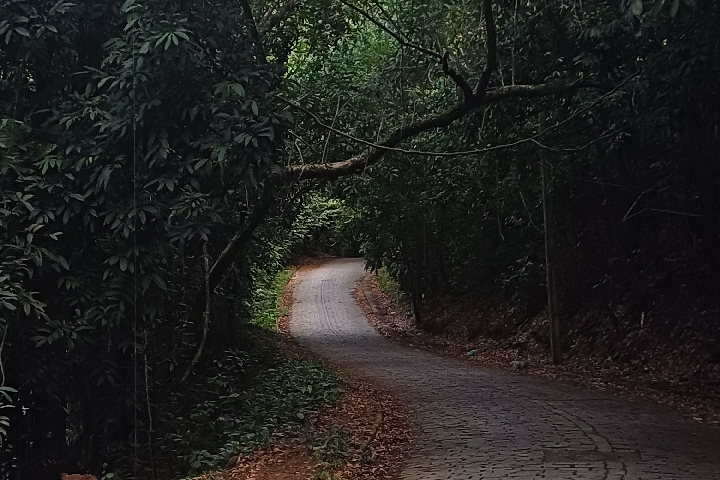
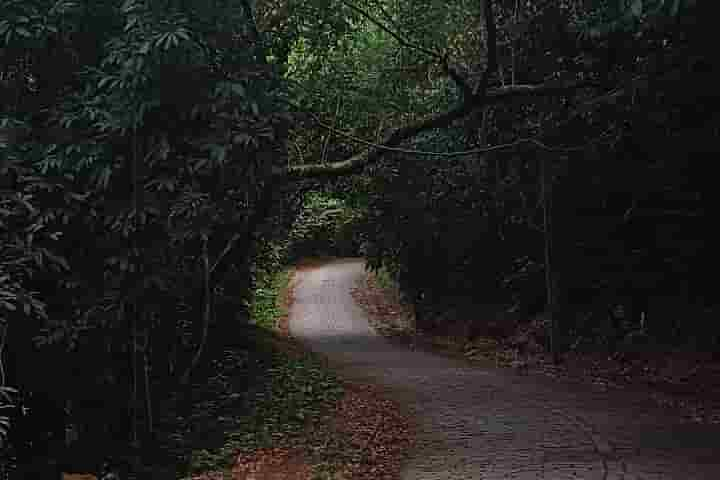
style: background + centered div

diff --git a/style.css b/style.css
@@ -1,10 +1,22 @@
 * {
     font-family: Georgia, serif;
-    color: #EEEEEE;
+    color: #F9F6EE
 }
 
-body {
-    background-image: url("assets/macacu-small.jpg");
-    background-size: contain;
-    padding: 1em;
+html {
+    min-height: 100vh;
+    background: linear-gradient(0deg, rgba(0, 0, 0, 1), rgba(0, 0, 0, 0.75)), url("assets/macacu-small.jpg");
+    background-size: cover;
+    background-position: center
+}
+
+.block1 {
+    position: absolute;
+    left: 50%;
+    top: 50%;
+    transform: translate(-50%, -50%)
+}
+
+.block1 p {
+    color: #BD9C42
 }

diff --git a/index.html b/index.html
@@ -6,15 +6,11 @@
         <link rel="stylesheet" href="style.css">
         <title>coming soon</title>
     </head>
-    <body>
-        <header>
-            <h1>WIP</h1>
-            <p>This is a test.</>
-        </header>
-        <article>
-            <p>
-            Welcome to my website!
-            </p>
-        </article>
-    </body>
+    <div class="block1">
+        <h1>wip</h1>
+        <p>
+        still learning html/css,
+        give it some time
+        </p>
+    </div>
 </html>
